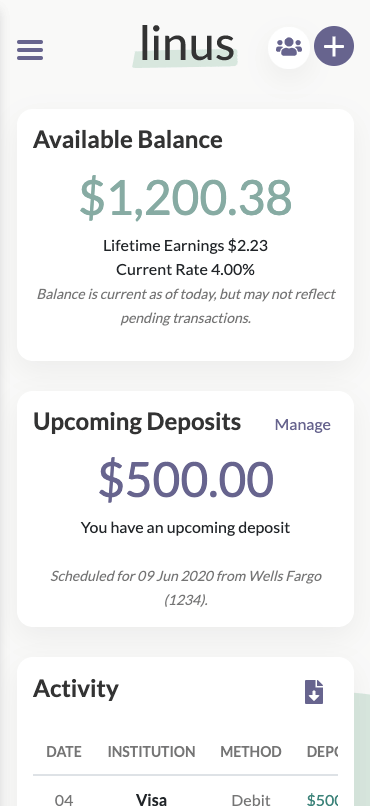
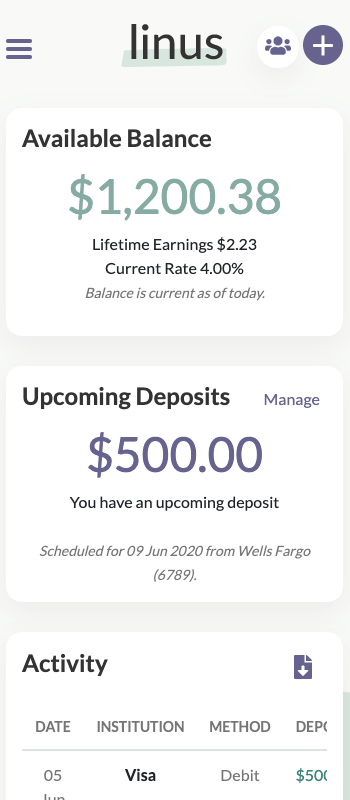
feat(linus_page): add higher quality mobile screenshots

diff --git a/src/components/LinusContent/components/ScreenShots.js b/src/components/LinusContent/components/ScreenShots.js
@@ -16,7 +16,7 @@ function ScreenShots() {
           }
         }
       }
-      chartImageMobile: file(relativePath: { eq: "MobileChart4x.png" }) {
+      chartImageMobile: file(relativePath: { eq: "MobileChart.png" }) {
         id
         childImageSharp {
           fluid(pngQuality: 100, maxWidth: 375) {
@@ -52,7 +52,7 @@ function ScreenShots() {
           }
         }
       }
-      settingsImageMobile: file(relativePath: { eq: "MobileSettings4x.png" }) {
+      settingsImageMobile: file(relativePath: { eq: "MobileSettings.png" }) {
         id
         childImageSharp {
           fluid(pngQuality: 100, maxWidth: 375) {
@@ -65,10 +65,7 @@ function ScreenShots() {
   `);
 
   const chartSources = [
-    {
-      ...imgData.chartImage.childImageSharp.fluid,
-      media: '(min-width: 1000px)',
-    },
+    imgData.chartImage.childImageSharp.fluid,
     {
       ...imgData.chartImageMobile.childImageSharp.fluid,
       media: '(max-width: 999px)',
@@ -76,10 +73,7 @@ function ScreenShots() {
   ];
 
   const activitySources = [
-    {
-      ...imgData.activityImage.childImageSharp.fluid,
-      media: '(min-width: 1000px)',
-    },
+    imgData.activityImage.childImageSharp.fluid,
     {
       ...imgData.activityImageMobile.childImageSharp.fluid,
       media: '(max-width: 999px)',
@@ -87,10 +81,7 @@ function ScreenShots() {
   ];
 
   const settingsSources = [
-    {
-      ...imgData.settingsImage.childImageSharp.fluid,
-      media: '(min-width: 1000px)',
-    },
+    imgData.settingsImage.childImageSharp.fluid,
     {
       ...imgData.settingsImageMobile.childImageSharp.fluid,
       media: '(max-width: 999px)',

diff --git a/src/components/LinusContent/components/BuiltWithStyles.js b/src/components/LinusContent/components/BuiltWithStyles.js
@@ -155,6 +155,8 @@ const StyledImageGrid = styled.div`
   }
 
   @media (max-width: 450px) {
+    max-width: 350px;
+
     .logos {
       grid-template-columns: repeat(2, 1fr);
 
